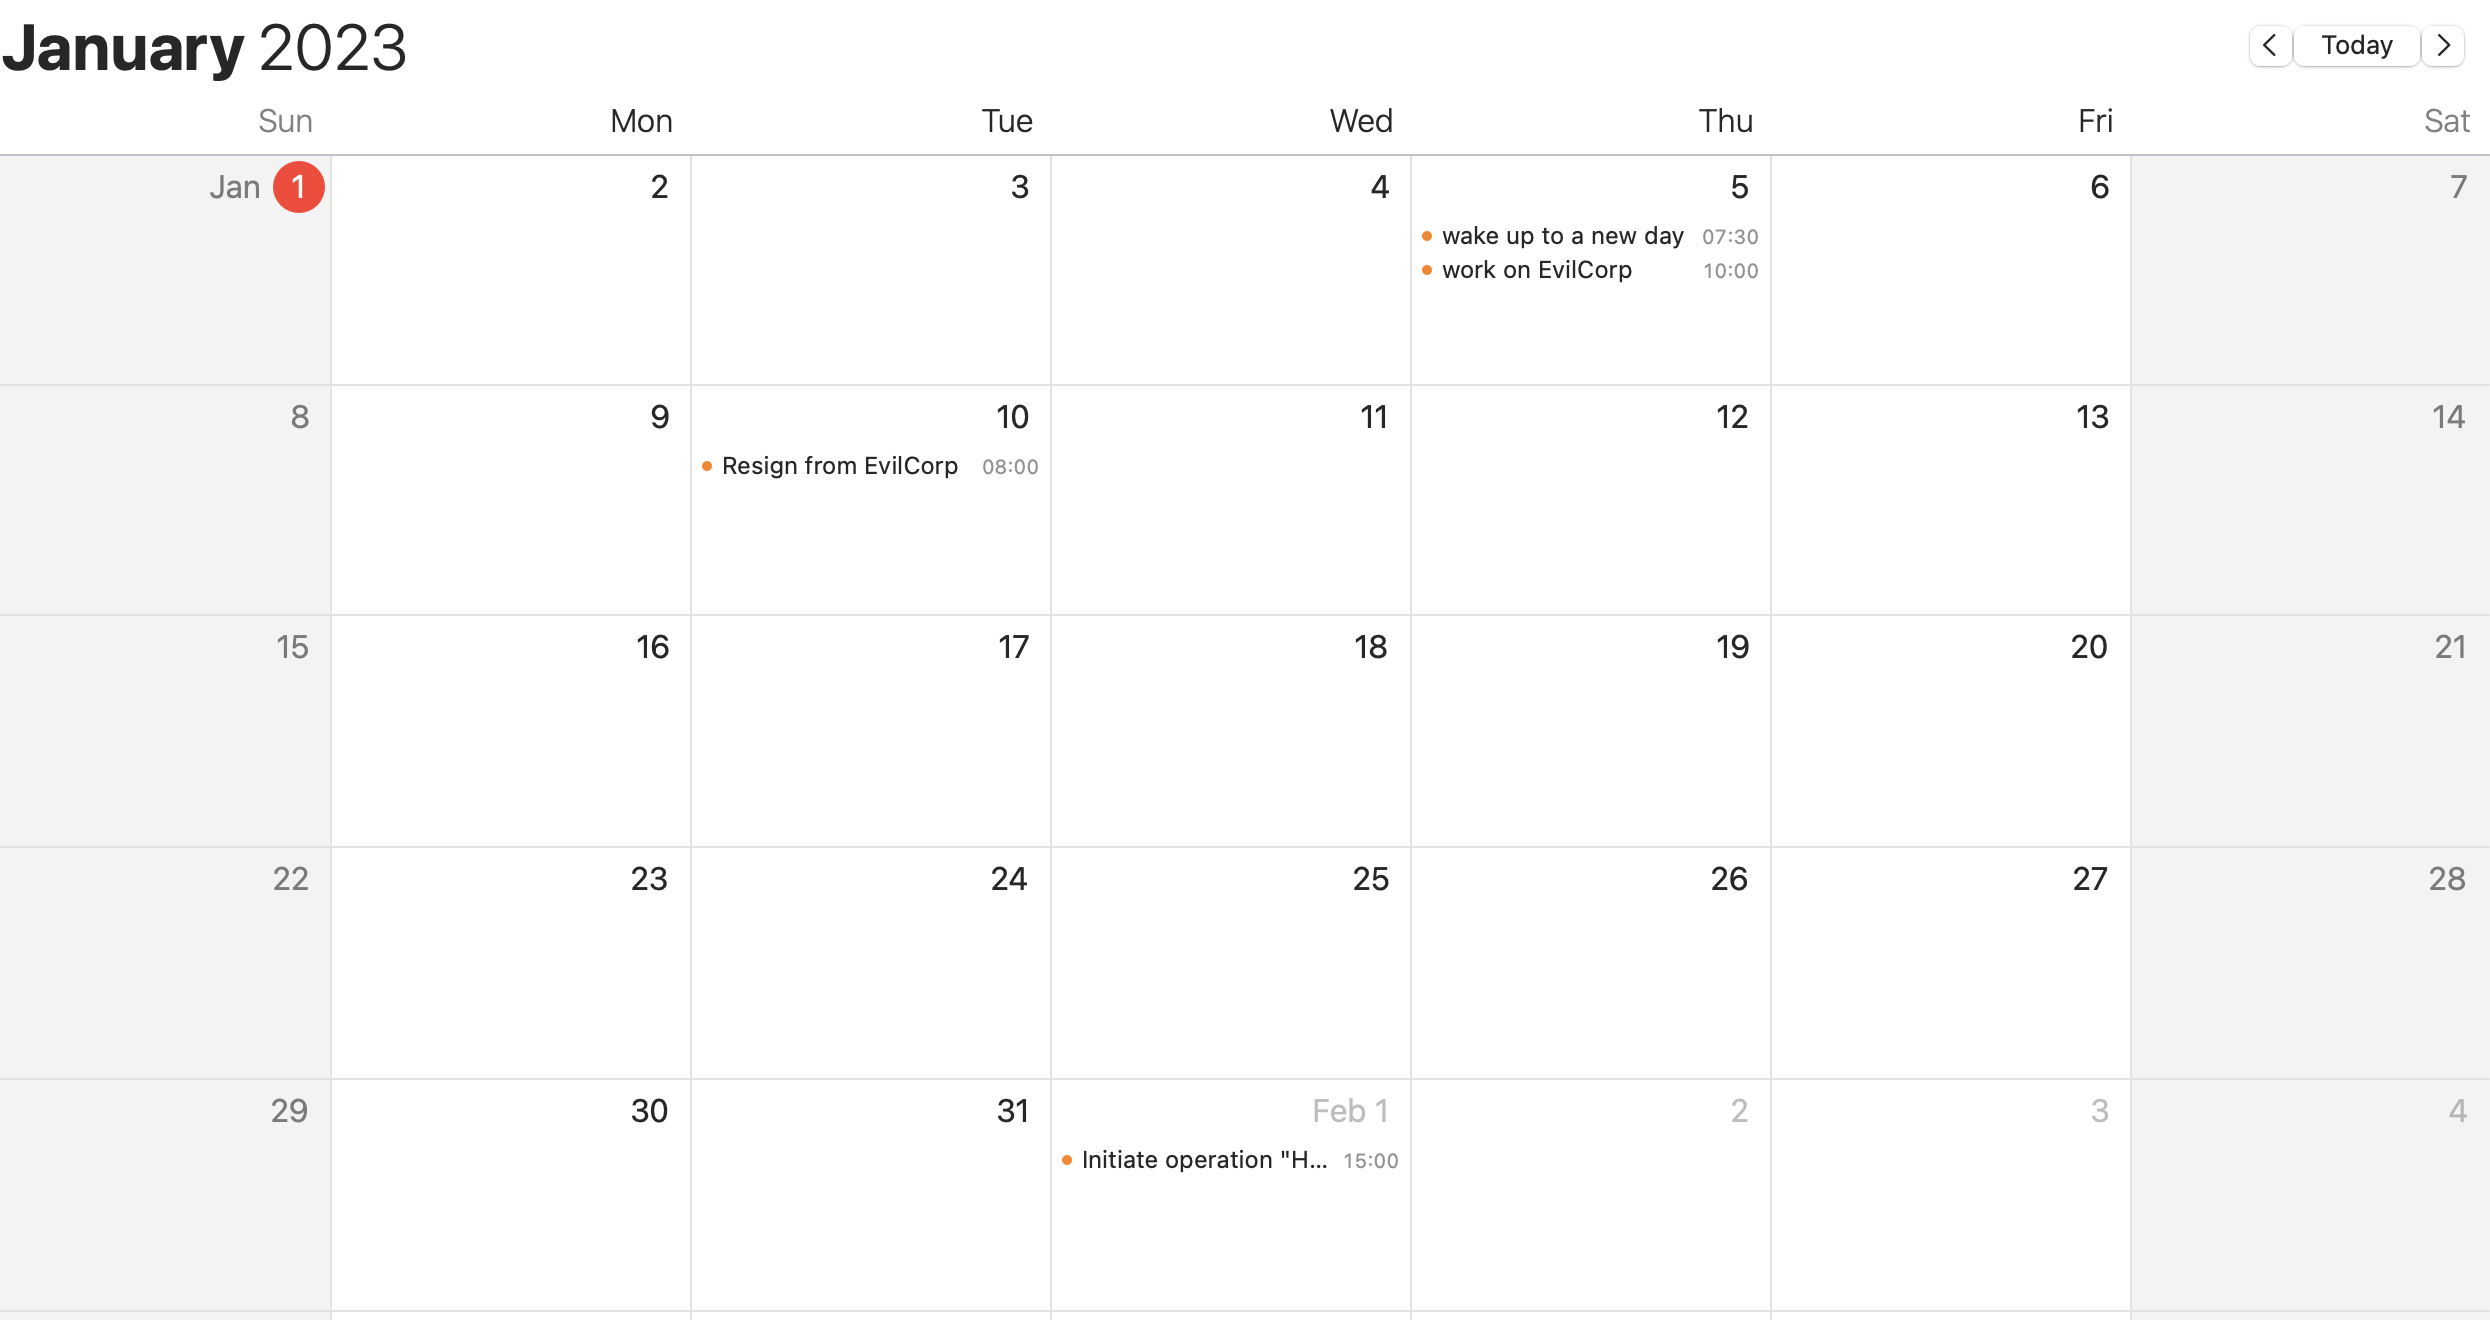
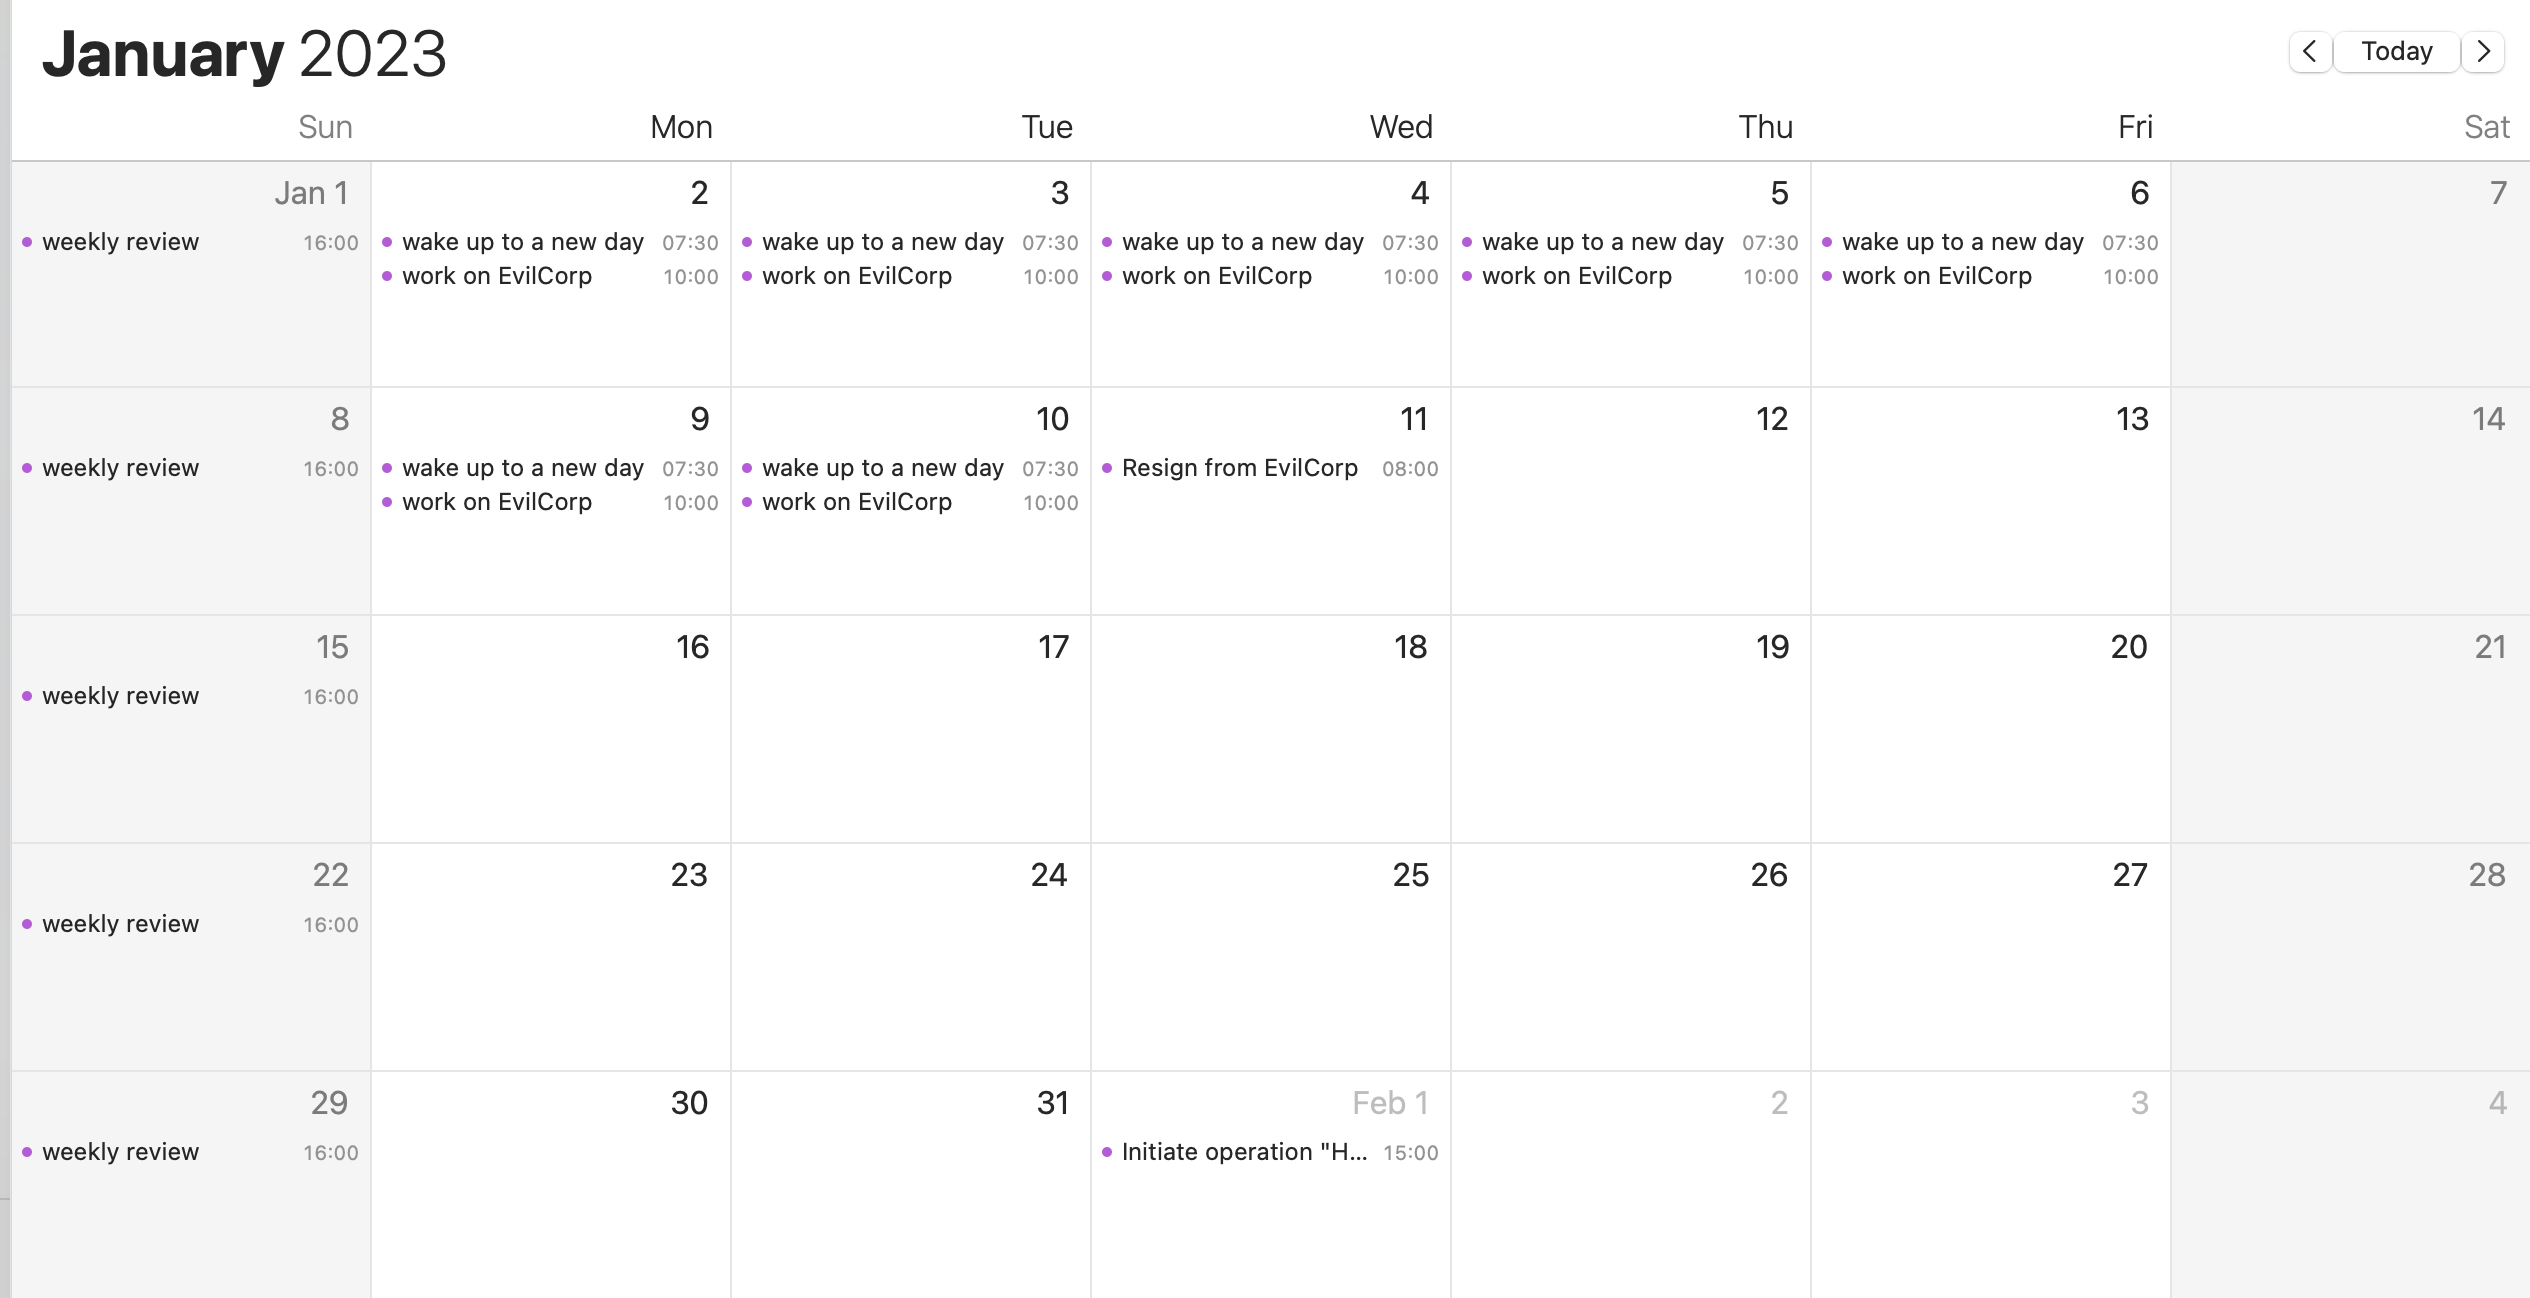
update docs

diff --git a/README.md b/README.md
@@ -31,42 +31,33 @@ When compiled into an .ics file, this could be imported into your calendar.
 
 #### Monthly planning
 ```
-2023-1-
---5
+2023-1- // Locks in the following events to 2023-1
+{--1~--10 and workday} // workdays from jan 1 to jan 10
 7:30am wake up to a new day
 10am ~ 11am work on EvilCorp
-- Gain root access to EvilCorp's servers
-- Do not get caught
 
---10
+{sun}
+4pm weekly review //weekly review every sunday
+
+--11
 8am~10am Resign from EvilCorp
 - Make sure you still have access to the servers
 
--2-
+
+-2- // This overrides the month information from line 1.
 --1
 3pm~4pm Initiate operation "Hack the planet"
 ```
 
-When resolved, this is equivalent to the following events, which will then be compiled to an .ics file:
-```
-2023-1-5 7:30~8:00 wake up to a new day
-2023-1-5 10:00~11:00 work on EvilCorp
-    - Gain root access to EvilCorp's servers
-2023-1-10 8:00~10:00 Resign from EvilCorp
-    - Make sure you still have access to the servers
-2023-2-1 3:00~4:00 Initiate operation "Hack the planet"
-```
-
-... Which could be imported into your digital calendar!
+After resolving, this could be imported into your calendar:
 ![](media/monthlyplan.png)
 
-### Rules (WIP)
-(Correct me if I'm wrong about any terms, I started [Crafting Interpreters](https://craftinginterpreters.com/) a week ago)
-
+### Rules 
 The TimeBlock language currently recognizes three types of statements(by order of precedence):
 - Event
 - Occasion
 - Notes
+- Filters
 
 `Occasion` is any single line that describes a point in time.
 It can be a date, a time, or a date and time.
@@ -79,8 +70,30 @@ A `Note` just a line of text, if it occurs after an Event, it is considered a no
 
 A `Range` is simply a pair of Occasions, separated by a `~`, indicating, well, a time-range.
 
+#### Filters
+`Filters` are a special type of statement that can be used to filter out dates, events, numbers in a specified range.
+Filters can be nested and combined to represent complex logic and recurring events.
 
+In the process of resolving, filters binds to the last specified `Occasion`, iterates through all possible values that fits the occasion, 
+and selects those that fits the criteria for the filter.
 
+For example, consider the following filter:
+```
+-2-
+{--1~--10 and workday}
+```
+This filter bounds to the occasion `-2-`, in which the year of the occasion could be inherited from previous occasions(by default the creation date of the file)
+, and the date is unspecified.
+Thus, the filter will iterate through all possible dates in February. 
+Since the two sub-filters are joined by an `and` clause, the filter will only select those dates that are both in the range `--1~--10` and are workdays.
+
+The following filters are currently supported:
+- Basic logic filters: `and`, `or`, `not`
+- Range filters: filters all dates in a range, eg. `--1~--10` filters all dates with day value 1 to 10 in the inferred year and month
+- Day-of-week filters: `workday`, `weekend`,  `sunday`, `monday`, `tuesday`, `wednesday`, `thursday`, `friday`, `saturday` (shorthand `mon` ~ `sun` is also supported)
+- "Flexible date filters": basically a shorthand for range filters, eg. `--{1~10}` is equivalent to `--1~--10`
+
+More filters are planned to be added in the future. (My current priority is to support region specific resolving of workdays based on [workalendar](https://github.com/workalendar/workalendar))
 ## Installation
 Currently, a [Rust](https://www.rust-lang.org/) installation
 is required.
